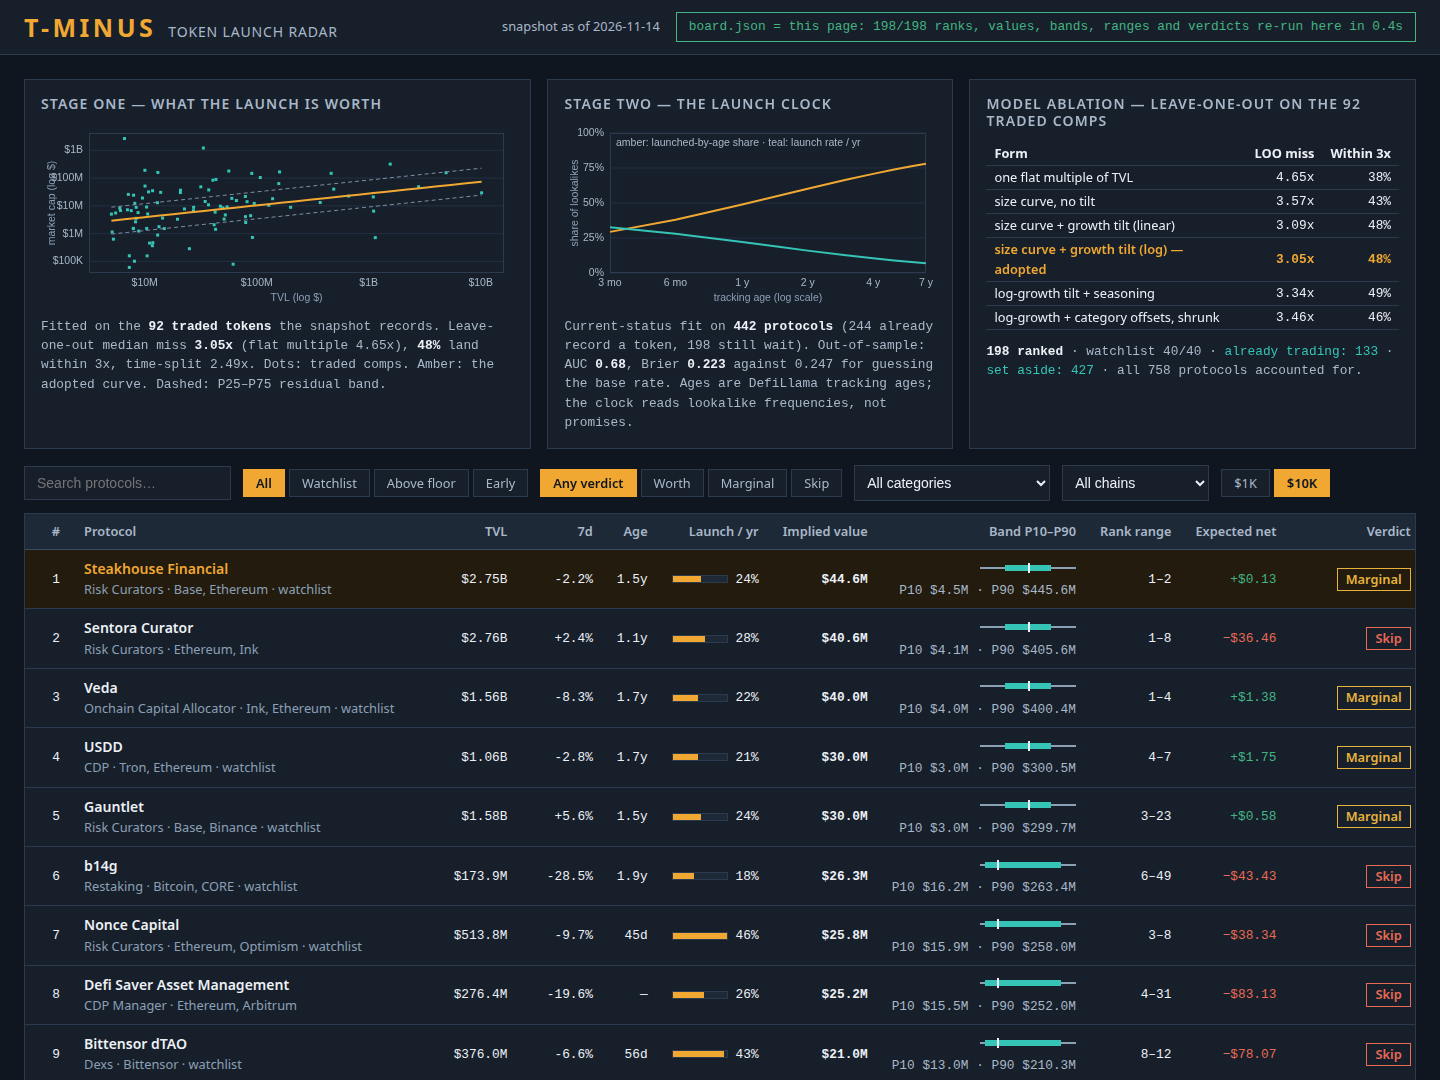
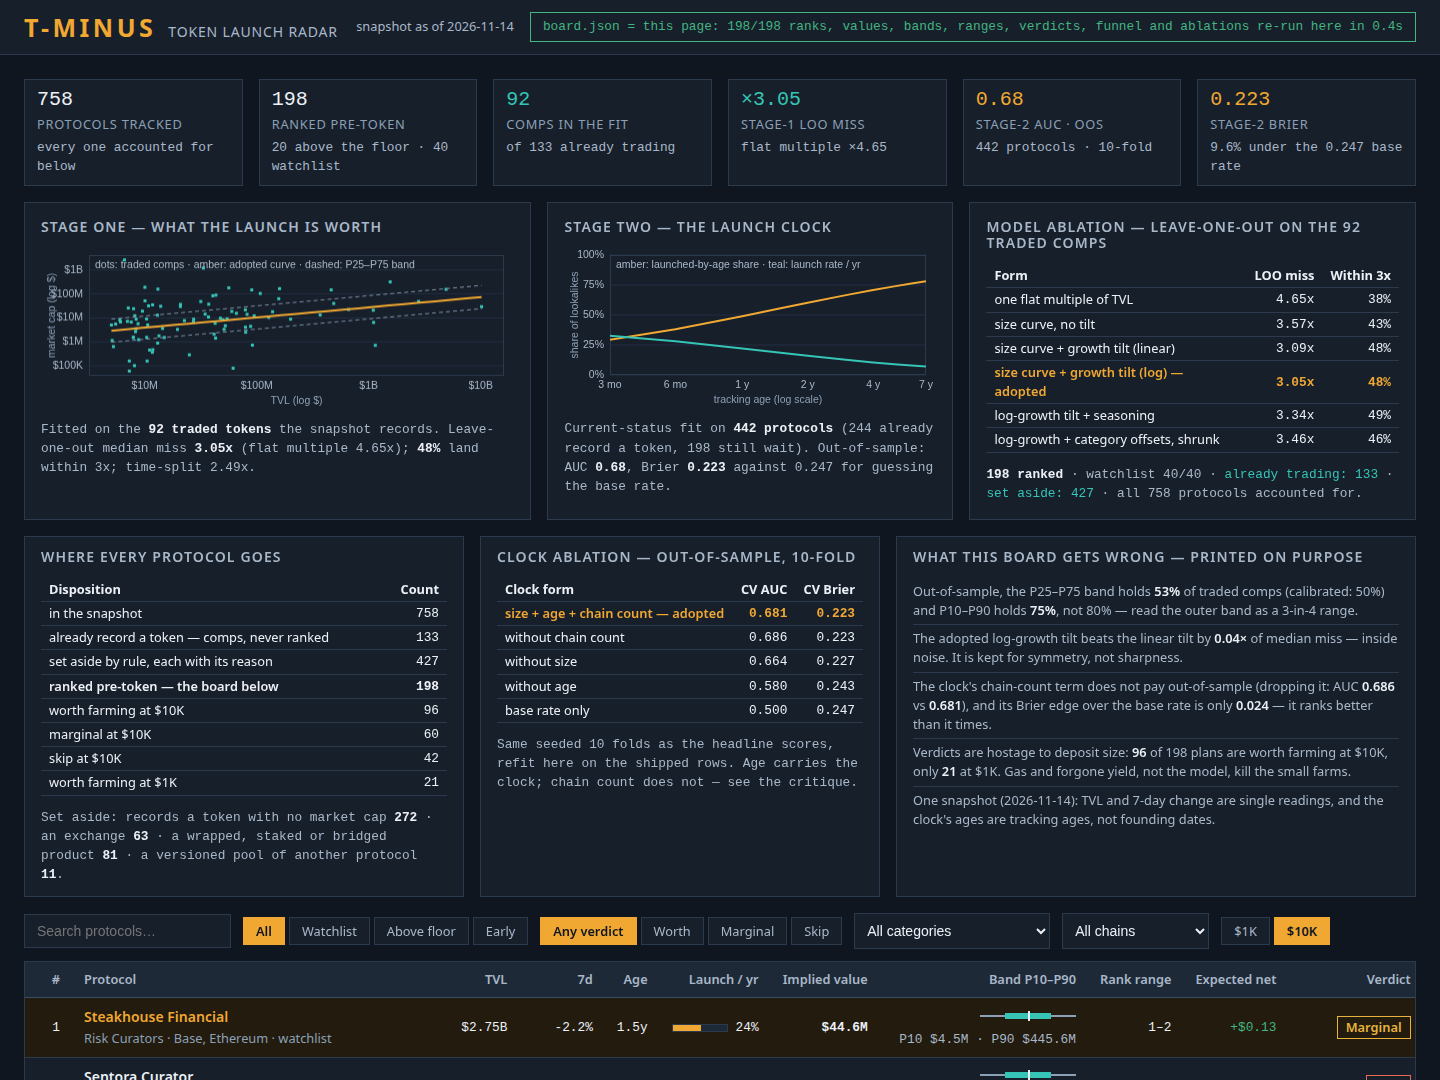
Evidence-density round: stat header, protocol funnel, clock ablation, printed self-critique
First screen rebuilt to the top field's evidence-density class with our own
artefacts only: 6-stat header from the shipped data, full disposition funnel
(758 -> 133 traded / 427 aside with reasons / 198 ranked / verdict splits),
out-of-sample clock ablation (age carries it; chain count does not pay),
and a printed self-critique (band coverage 53%/75%, tilt gap inside noise,
deposit sensitivity). In-page verify() now re-derives the funnel, the clock
ablation and the band table. board.json/data.js byte-identical; models and
numbers unchanged. Gate re-implementation ALL PASS; independent Python audit
of every printed number 31/31 PASS; dossier 1,173,906 B byte-identical
across two builds.

diff --git a/dashboard/app.js b/dashboard/app.js
@@ -64,6 +64,60 @@ function farmEcon(p, value, age, dep, hz) {
   return { slice, costs, forgone, hours, breakeven, expNet, verdict };
 }
 
+/* ---------- evidence: the headline numbers, re-derived from the shipped data ---------- */
+function aucScore(y, s) { const order = s.map((v, i) => ({ v, i })).sort((a, b) => a.v - b.v || a.i - b.i), r = new Array(s.length).fill(0); let i = 0; while (i < order.length) { let j = i; while (j + 1 < order.length && order[j + 1].v === order[i].v) j++; const avg = (i + 1 + j + 1) / 2; for (let t = i; t <= j; t++) r[order[t].i] = avg; i = j + 1; } let pos = 0, neg = 0, sumPos = 0; y.forEach((v, idx) => { if (v === 1) { pos++; sumPos += r[idx]; } else neg++; }); return pos && neg ? (sumPos - pos * (pos + 1) / 2) / (pos * neg) : 0; }
+function clockCV(rows) { const rng = mulberry(0xC10C), idx = rows.map((_, i) => i); for (let i = idx.length - 1; i > 0; i--) { const j = Math.floor(rng() * (i + 1)); const t = idx[i]; idx[i] = idx[j]; idx[j] = t; } const pred = new Array(rows.length).fill(0); for (let f = 0; f < 10; f++) { const test = new Set(idx.filter((_, i) => i % 10 === f)), beta = fitClock(rows.filter((_, i) => !test.has(i))); rows.forEach((r, i) => { if (test.has(i)) pred[i] = 1 / (1 + Math.exp(-r.x.reduce((s, v, j) => s + beta[j + 1] * v, beta[0]))); }); } const y = rows.map(r => r.y); return { auc: aucScore(y, pred), brier: y.reduce((s, v, i) => s + (v - pred[i]) ** 2, 0) / y.length }; }
+function evidence() {
+  const comps = T.raw.comps, kind = T.model.kind;
+  const vc = (dep) => { const o = { 'Worth farming': 0, Marginal: 0, Skip: 0 }; for (const r of T.rows) o[r.econ[String(dep)].verdict]++; return o; };
+  const crows = T.raw.clock.map(r => ({ x: clockFeats(r.tvl_usd, r.age_days ?? UNKNOWN_AGE, r.chains), y: r.launched }));
+  const sub = (keep) => crows.map(r => ({ x: keep.map(i => r.x[i]), y: r.y }));
+  const abl2 = [['size + age + chain count', [0, 1, 2], true], ['without chain count', [0, 1], false], ['without size', [1, 2], false], ['without age', [0, 2], false]].map(([label, keep, adopted]) => ({ label, adopted, ...clockCV(sub(keep)) }));
+  abl2.push({ label: 'base rate only', adopted: false, auc: 0.5, brier: T.clock.base_brier });
+  const pct = (v, q) => { const a = [...v].sort((x, y) => x - y); return a.length ? a[Math.max(0, Math.ceil(q * a.length) - 1)] : 0; };
+  const qsf = (v) => [.1, .25, .75, .9].map(q => Math.max(-1, Math.min(1, pct(v, q))));
+  const res = [], buckets = new Map();
+  for (let i = 0; i < comps.length; i++) { const f = fitForm(comps.filter((_, j) => j !== i), kind), r = Math.log10(comps[i].mcap_usd) - f.predict(comps[i]), key = Math.floor(Math.log10(comps[i].tvl_usd)); res.push(r); buckets.set(key, [...(buckets.get(key) ?? []), r]); }
+  const gq = qsf(res), bq = new Map([...buckets].filter(([, v]) => v.length >= 8).map(([k, v]) => [k, qsf(v)]));
+  let mid = 0, wide = 0;
+  comps.forEach((p, i) => { const q = bq.get(Math.floor(Math.log10(p.tvl_usd))) ?? gq; if (res[i] >= q[1] && res[i] <= q[2]) mid++; if (res[i] >= q[0] && res[i] <= q[3]) wide++; });
+  const abl1 = Object.fromEntries(T.validation.ablation.map(a => [a.variant, a.medianMiss]));
+  return { vc10: vc(10000), vc1: vc(1000), abl2, gq, covMid: mid / comps.length, covWide: wide / comps.length, tiltGap: abl1.growth - abl1.loggrowth };
+}
+let EV = null;
+function renderEvidence() {
+  const ev = EV, c = T.counts, v = T.validation, ck = T.clock;
+  const stat = (val, cap, sub, cls = '') => `<div class="stat"><div class="v ${cls}">${val}</div><div class="cap">${cap}</div><div class="sub">${sub}</div></div>`;
+  $('statStrip').innerHTML =
+    stat(c.protocols, 'protocols tracked', 'every one accounted for below') +
+    stat(c.ranked, 'ranked pre-token', `${c.above_floor} above the floor · ${c.watchlist} watchlist`) +
+    stat(v.comps, 'comps in the fit', `of ${c.traded} already trading`, 'teal') +
+    stat('×' + v.looMedianMiss.toFixed(2), 'stage-1 LOO miss', `flat multiple ×${v.flatMedianMiss.toFixed(2)}`, 'teal') +
+    stat(ck.cv_auc.toFixed(2), 'stage-2 AUC · OOS', `${ck.population} protocols · 10-fold`, 'amber') +
+    stat(ck.cv_brier.toFixed(3), 'stage-2 Brier', `${((ck.base_brier - ck.cv_brier) / ck.base_brier * 100).toFixed(1)}% under the ${ck.base_brier.toFixed(3)} base rate`, 'amber');
+  const fr = (label, n, cls = '') => `<tr class="${cls}"><td>${label}</td><td>${n}</td></tr>`;
+  $('funnelTable').innerHTML = '<tr><th>Disposition</th><th>Count</th></tr>' +
+    fr('in the snapshot', c.protocols) +
+    fr('already record a token — comps, never ranked', c.traded) +
+    fr('set aside by rule, each with its reason', c.aside) +
+    fr('ranked pre-token — the board below', c.ranked, 'sum') +
+    fr('worth farming at $10K', ev.vc10['Worth farming']) +
+    fr('marginal at $10K', ev.vc10.Marginal) +
+    fr('skip at $10K', ev.vc10.Skip) +
+    fr('worth farming at $1K', ev.vc1['Worth farming']);
+  const reasons = {}; for (const a of T.aside) reasons[a.reason] = (reasons[a.reason] ?? 0) + 1;
+  $('funnelNote').innerHTML = `Set aside: ${Object.entries(reasons).map(([k, n]) => `${esc(k)} <b>${n}</b>`).join(' · ')}.`;
+  $('abl2Table').innerHTML = '<tr><th>Clock form</th><th>CV AUC</th><th>CV Brier</th></tr>' + ev.abl2.map(a => `<tr class="${a.adopted ? 'adopted' : ''}"><td>${esc(a.label)}</td><td>${a.auc.toFixed(3)}</td><td>${a.brier.toFixed(3)}</td></tr>`).join('');
+  $('abl2Note').innerHTML = `Same seeded 10 folds as the headline scores, refit here on the shipped rows. Age carries the clock; chain count does not — see the critique.`;
+  $('critList').innerHTML = [
+    `Out-of-sample, the P25–P75 band holds <b>${Math.round(ev.covMid * 100)}%</b> of traded comps (calibrated: 50%) and P10–P90 holds <b>${Math.round(ev.covWide * 100)}%</b>, not 80% — read the outer band as a 3-in-4 range.`,
+    `The adopted log-growth tilt beats the linear tilt by <b>${ev.tiltGap.toFixed(2)}×</b> of median miss — inside noise. It is kept for symmetry, not sharpness.`,
+    `The clock's chain-count term does not pay out-of-sample (dropping it: AUC <b>${ev.abl2[1].auc.toFixed(3)}</b> vs <b>${ck.cv_auc.toFixed(3)}</b>), and its Brier edge over the base rate is only <b>${(ck.base_brier - ck.cv_brier).toFixed(3)}</b> — it ranks better than it times.`,
+    `Verdicts are hostage to deposit size: <b>${ev.vc10['Worth farming']}</b> of ${c.ranked} plans are worth farming at $10K, only <b>${ev.vc1['Worth farming']}</b> at $1K. Gas and forgone yield, not the model, kill the small farms.`,
+    `One snapshot (${esc(T.as_of)}): TVL and 7-day change are single readings, and the clock's ages are tracking ages, not founding dates.`,
+  ].map(t => `<li>${t}</li>`).join('');
+}
+
 /* ---------- verification: refit both stages, rebuild every row ---------- */
 function verify() {
   const t0 = performance.now(), comps = T.raw.comps, rows = T.rows;
@@ -96,9 +150,16 @@ function verify() {
     for (const dep of [1000, 10000]) { const e = farmEcon(p, v, p.age_days, dep, hz); if (e.verdict !== p.econ[String(dep)].verdict || round2(e.expNet) !== p.econ[String(dep)].expected_net) { bad = 'verdict: ' + p.slug; break; } }
     if (bad) break;
   }
+  // evidence layer: the clock ablation must reproduce the shipped out-of-sample
+  // scores, the band quantiles the shipped band table, and the rendered numbers
+  // the recomputation — anything printed on the first screen is checked here.
+  const ev2 = evidence();
+  if (!bad && (Math.abs(ev2.abl2[0].auc - T.clock.cv_auc) > 5e-4 || Math.abs(ev2.abl2[0].brier - T.clock.cv_brier) > 5e-4)) bad = 'clock ablation';
+  if (!bad && JSON.stringify(ev2.gq.map(x => +x.toFixed(6))) !== JSON.stringify(T.band_table.global.map(x => +x.toFixed(6)))) bad = 'band table';
+  if (!bad && EV && JSON.stringify(ev2) !== JSON.stringify(EV)) bad = 'evidence render';
   const secs = ((performance.now() - t0) / 1000).toFixed(1), chip = $('chip');
   if (bad) { chip.textContent = 're-run mismatch — ' + bad; chip.className = 'chip chip-bad'; }
-  else { chip.textContent = `board.json = this page: ${rows.length}/${rows.length} ranks, values, bands, ranges and verdicts re-run here in ${secs}s`; chip.className = 'chip chip-ok'; }
+  else { chip.textContent = `board.json = this page: ${rows.length}/${rows.length} ranks, values, bands, ranges, verdicts, funnel and ablations re-run here in ${secs}s`; chip.className = 'chip chip-ok'; }
 }
 
 /* ---------- board UI ---------- */
@@ -145,7 +206,7 @@ function renderBoard() {
   } else fb.hidden = true;
 }
 function drawFit() {
-  const cv = $('fitChart'), dpr = Math.min(2, window.devicePixelRatio || 1), W = cv.clientWidth, H = 180;
+  const cv = $('fitChart'), dpr = Math.min(2, window.devicePixelRatio || 1), W = cv.clientWidth, H = 160;
   cv.width = W * dpr; cv.height = H * dpr; const g = cv.getContext('2d'); g.scale(dpr, dpr);
   const sc = T.validation.scatter, xs = sc.comps.map(p => p[0]), ys = sc.comps.map(p => p[1]);
   const x0 = Math.min(...xs) - .2, x1 = Math.max(...xs) + .2, y0 = Math.min(...ys) - .2, y1 = Math.max(...ys) + .2;
@@ -160,6 +221,7 @@ function drawFit() {
   for (let d = Math.ceil(x0); d <= Math.floor(x1); d++) g.fillText(fmtDec(d), X(d), Tp + ph + 5);
   g.strokeStyle = '#2C3A4D'; g.strokeRect(L + .5, Tp + .5, pw - 1, ph - 1);
   g.fillStyle = '#35C4B5'; for (const [x, y] of sc.comps) { g.fillRect(X(x) - 1.5, Y(y) - 1.5, 3, 3); }
+  g.fillStyle = '#A9B8C8'; g.textAlign = 'left'; g.textBaseline = 'top'; g.fillText('dots: traded comps · amber: adopted curve · dashed: P25–P75 band', L + 6, Tp + 5);
   g.strokeStyle = '#7E90A5'; g.setLineDash([4, 3]); g.beginPath(); sc.band.forEach(([x, , hi], i) => i ? g.lineTo(X(x), Y(hi)) : g.moveTo(X(x), Y(hi))); g.stroke();
   g.beginPath(); sc.band.forEach(([x, lo], i) => i ? g.lineTo(X(x), Y(lo)) : g.moveTo(X(x), Y(lo))); g.stroke(); g.setLineDash([]);
   g.strokeStyle = '#F0A832'; g.lineWidth = 2; g.beginPath(); sc.curve.forEach(([x, y], i) => i ? g.lineTo(X(x), Y(y)) : g.moveTo(X(x), Y(y))); g.stroke();
@@ -167,7 +229,7 @@ function drawFit() {
   g.textAlign = 'center'; g.textBaseline = 'bottom'; g.fillText('TVL (log $)', L + pw / 2, H - 2);
 }
 function drawClock() {
-  const cv = $('clockChart'), dpr = Math.min(2, window.devicePixelRatio || 1), W = cv.clientWidth, H = 180;
+  const cv = $('clockChart'), dpr = Math.min(2, window.devicePixelRatio || 1), W = cv.clientWidth, H = 160;
   cv.width = W * dpr; cv.height = H * dpr; const g = cv.getContext('2d'); g.scale(dpr, dpr);
   const pts = T.clock.curve;
   // axes first: percent ticks up the side, labelled ages along the log time axis.
@@ -187,8 +249,8 @@ function drawClock() {
 }
 function renderHero() {
   const v = T.validation, c = T.clock;
-  $('fitStats').innerHTML = `Fitted on the <b>${v.comps} traded tokens</b> the snapshot records. Leave-one-out median miss <b>${v.looMedianMiss.toFixed(2)}x</b> (flat multiple ${v.flatMedianMiss.toFixed(2)}x), <b>${Math.round(v.looWithin3 * 100)}%</b> land within 3x, time-split ${v.timeSplitMiss ? v.timeSplitMiss.toFixed(2) + 'x' : '—'}. Dots: traded comps. Amber: the adopted curve. Dashed: P25–P75 residual band.`;
-  $('clockStats').innerHTML = `Current-status fit on <b>${c.population} protocols</b> (${c.launched} already record a token, ${c.waiting} still wait). Out-of-sample: AUC <b>${c.cv_auc.toFixed(2)}</b>, Brier <b>${c.cv_brier.toFixed(3)}</b> against ${c.base_brier.toFixed(3)} for guessing the base rate. Ages are DefiLlama tracking ages; the clock reads lookalike frequencies, not promises.`;
+  $('fitStats').innerHTML = `Fitted on the <b>${v.comps} traded tokens</b> the snapshot records. Leave-one-out median miss <b>${v.looMedianMiss.toFixed(2)}x</b> (flat multiple ${v.flatMedianMiss.toFixed(2)}x); <b>${Math.round(v.looWithin3 * 100)}%</b> land within 3x; time-split ${v.timeSplitMiss ? v.timeSplitMiss.toFixed(2) + 'x' : '—'}.`;
+  $('clockStats').innerHTML = `Current-status fit on <b>${c.population} protocols</b> (${c.launched} already record a token, ${c.waiting} still wait). Out-of-sample: AUC <b>${c.cv_auc.toFixed(2)}</b>, Brier <b>${c.cv_brier.toFixed(3)}</b> against ${c.base_brier.toFixed(3)} for guessing the base rate.`;
   $('ablTable').innerHTML = '<tr><th>Form</th><th>LOO miss</th><th>Within 3x</th></tr>' + v.ablation.map(a => `<tr class="${a.variant === T.model.kind ? 'adopted' : ''}"><td>${esc(a.label)}</td><td>${a.medianMiss.toFixed(2)}x</td><td>${Math.round(a.within3 * 100)}%</td></tr>`).join('');
   $('boardCounts').innerHTML = `<b>${T.counts.ranked} ranked</b> · watchlist ${T.counts.watchlist}/${T.counts.watchlist} · <a href="#/traded">already trading: ${T.counts.traded}</a> · <a href="#/aside">set aside: ${T.counts.aside}</a> · all ${T.counts.protocols} protocols accounted for.`;
   $('methodText').innerHTML = `
@@ -259,7 +321,8 @@ function init() {
   if (!T) { $('boot').hidden = true; const f = $('fatal'); f.hidden = false; f.textContent = 'The radar data (data.js) did not load, so the board cannot be drawn. Nothing on this page is estimated by hand: without the snapshot output there is nothing to show.'; return; }
   $('boot').hidden = true; $('view-board').hidden = false;
   $('asof').textContent = 'snapshot as of ' + T.as_of;
-  renderHero(); drawFit(); drawClock();
+  EV = evidence();
+  renderHero(); renderEvidence(); drawFit(); drawClock();
   chips($('segChips'), [['all', 'All'], ['watchlist', 'Watchlist'], ['above', 'Above floor'], ['early', 'Early']], state.seg, (k) => { state.seg = k; init2(); });
   chips($('verChips'), [['all', 'Any verdict'], ['Worth farming', 'Worth'], ['Marginal', 'Marginal'], ['Skip', 'Skip']], state.ver, (k) => { state.ver = k; init2(); }, (k) => k === 'Worth farming' ? 'v-go' : k === 'Marginal' ? 'v-warn' : k === 'Skip' ? 'v-skip' : '');
   chips($('depChips'), [['1000', '$1K'], ['10000', '$10K']], String(state.dep), (k) => { state.dep = Number(k); init2(); });

diff --git a/dashboard/app.css b/dashboard/app.css
@@ -49,6 +49,21 @@ main{padding:var(--s5);max-width:1560px;margin:0 auto}
 .abl td:first-child,.abl th:first-child{text-align:left;font-family:var(--sans)}
 .abl tr.adopted td{color:var(--amber);font-weight:600}
 .abl tr.adopted td:first-child::after{content:" — adopted";color:var(--amber)}
+.abl tr.sum td{color:var(--ink);font-weight:600}
+
+/* stat strip + evidence row: the first screen carries the proof, not just charts */
+.statstrip{display:grid;grid-template-columns:repeat(6,1fr);gap:var(--s4);margin-bottom:var(--s4)}
+.stat{border:1px solid var(--line);background:var(--panel);padding:var(--s2) var(--s3)}
+.stat .v{font-family:var(--mono);font-size:var(--fs-l);line-height:1.15}
+.stat .v.teal{color:var(--teal)} .stat .v.amber{color:var(--amber)}
+.stat .cap{color:var(--ink3);font-size:var(--fs-xs);text-transform:uppercase;letter-spacing:.06em;margin-top:var(--s1)}
+.stat .sub{color:var(--ink2);font-size:var(--fs-xs);font-family:var(--mono);margin-top:var(--s1)}
+.evidence{display:grid;grid-template-columns:1.1fr 1fr 1.3fr;gap:var(--s4);margin-bottom:var(--s4)}
+.evidence .panel{padding:var(--s3) var(--s4)}
+.crit{list-style:none;margin:0;padding:0;color:var(--ink2);font-size:var(--fs-xs)}
+.crit li{padding:var(--s1) 0;border-bottom:1px solid var(--line)}
+.crit li:last-child{border-bottom:none;padding-bottom:0}
+.crit b{color:var(--ink);font-weight:600}
 
 /* toolbar */
 .toolbar{display:flex;flex-wrap:wrap;gap:var(--s3);align-items:center;margin-bottom:var(--s3)}
@@ -137,5 +152,5 @@ table.data td:first-child,table.data th:first-child{text-align:left}
 .listhead{display:flex;justify-content:space-between;align-items:baseline;margin-bottom:var(--s3)}
 .listhead h1{font-size:var(--fs-xl)}
 .foot{padding:var(--s4) var(--s5);color:var(--ink3);font-size:var(--fs-xs);border-top:1px solid var(--line);margin-top:var(--s5)}
-@media (max-width:1100px){.hero{grid-template-columns:1fr}.d-grid{grid-template-columns:1fr}.method-grid{grid-template-columns:1fr}}
+@media (max-width:1100px){.hero{grid-template-columns:1fr}.d-grid{grid-template-columns:1fr}.method-grid{grid-template-columns:1fr}.statstrip{grid-template-columns:repeat(2,1fr)}.evidence{grid-template-columns:1fr}}
 @media (prefers-reduced-motion:reduce){*{transition:none!important;animation:none!important}}

diff --git a/dashboard/index.html b/dashboard/index.html
@@ -15,21 +15,38 @@
   <div id="boot" class="boot">Reading the snapshot and fitting the two stages…</div>
   <div id="fatal" class="fatal" hidden></div>
   <section id="view-board" hidden>
+    <section class="statstrip" id="statStrip" aria-label="Headline numbers"></section>
     <div class="hero">
       <div class="panel panel-fit">
         <h2>Stage one — what the launch is worth</h2>
-        <canvas id="fitChart" height="180"></canvas>
+        <canvas id="fitChart" height="160"></canvas>
         <p id="fitStats" class="stats"></p>
       </div>
       <div class="panel panel-clock">
         <h2>Stage two — the launch clock</h2>
-        <canvas id="clockChart" height="180"></canvas>
+        <canvas id="clockChart" height="160"></canvas>
         <p id="clockStats" class="stats"></p>
       </div>
       <div class="panel panel-abl">
         <h2>Model ablation — leave-one-out on the 92 traded comps</h2>
         <table id="ablTable" class="abl"></table>
         <p id="boardCounts" class="stats"></p>
+      </div>
+    </div>
+    <div class="evidence">
+      <div class="panel">
+        <h2>Where every protocol goes</h2>
+        <table id="funnelTable" class="abl"></table>
+        <p id="funnelNote" class="stats"></p>
+      </div>
+      <div class="panel">
+        <h2>Clock ablation — out-of-sample, 10-fold</h2>
+        <table id="abl2Table" class="abl"></table>
+        <p id="abl2Note" class="stats"></p>
+      </div>
+      <div class="panel">
+        <h2>What this board gets wrong — printed on purpose</h2>
+        <ul id="critList" class="crit"></ul>
       </div>
     </div>
     <nav class="toolbar" aria-label="Board controls">
